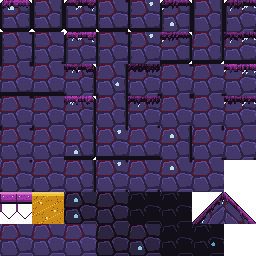
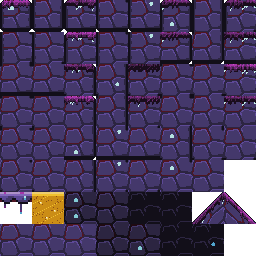
Pass 542: the Evercrown's shelves are grown
The Evercrown's one-way plank was a hot crystal-ramp board on crystal chains,
which the pass 540 grade read as a flat single-fill magenta prop. It is now a
shelf grown from the zone's own matter (night ramp, lit top over shaded lobes,
a crystal glaze, sinew notches, a cyan pore, selective outline, a hanging
tendril) and hangs on sinew strands. Bible 12.34.

Changed region(s): [[0.0, 0.75, 0.125, 0.8438]]

diff --git a/tools/art/tilegen.py b/tools/art/tilegen.py
@@ -692,8 +692,8 @@ def darken(img, ox, oy, steps):
 # from zone to zone, and the stub becomes a drawn trestle so the ledge reads as
 # built. `metal` gives the board a brighter catch-light (the iron Tower). The
 # families: warm wood (gym, heartwood, boughs), grey driftwood (haar, sunken),
-# pale stone (vorrhallow, trials, tower), dry timber (spires), stillglass
-# (evercrown). hearthroot's plank is PixelLab art (pixellab_tileset.atlas) and
+# pale stone (vorrhallow, trials, tower), dry timber (spires), and a grown
+# shelf (evercrown, 12.34: paint_grown_shelf). hearthroot's plank is PixelLab art (pixellab_tileset.atlas) and
 # does not use this painter.
 PLANK = {
     "gym": {"wood": "bark", "nail": "stone-5", "strut": "bark"},
@@ -705,7 +705,7 @@ PLANK = {
     "trials": {"wood": "ash", "nail": "ash-5", "strut": "ash"},
     "spires": {"wood": "ochre", "nail": "gold-5", "strut": "umber"},
     "tower": {"wood": "ash", "nail": "sky-5", "strut": "ash", "metal": True},
-    "evercrown": {"wood": "crystal", "nail": "sky-6", "strut": "crystal"},
+    "evercrown": {"wood": "night", "nail": "sky-6", "strut": "night", "grown": True},
     "hearthroot": {"wood": "bark", "nail": "gold-4", "strut": "bark"},
 }
 
@@ -716,6 +716,9 @@ def paint_one_way(img, ox, oy, zone):
     trestle below so the ledge reads as built, not floated. hearthroot's plank is
     PixelLab art and does not use this."""
     spec = PLANK.get(zone, PLANK["gym"])
+    if spec.get("grown"):
+        paint_grown_shelf(img, ox, oy, spec)
+        return
     wood, nail, strut = spec["wood"], spec["nail"], spec["strut"]
     metal = spec.get("metal", False)
     period = 8 * D
@@ -757,6 +760,97 @@ def paint_one_way(img, ox, oy, zone):
                 xx = (gx + (1 if sgn > 0 else 0) + sgn * k) % T
                 shade = "night-0" if k >= leg - 1 else f"{strut}-1"
                 img.putpixel((ox + xx, oy + y), c(shade))
+
+
+# The Evercrown's shelf (design bible 12.34, pass 542). Its plank was a stillglass
+# board in the hot crystal ramp, hung on crystal chains: the independent grade (pass
+# 540) read it as a flat single-fill magenta prop. It is now grown from the zone's
+# own matter: a row of rounded cell segments on the night ramp, lit from the upper
+# left, with sinew (ember-1) in the seams, a cyan pore in some segments, a thin
+# crystal glaze only on the lit rim, a night-0 outline under the shadow side, and
+# short tendrils hanging from its underside. Painted in whole world pixels.
+SHELF_SEGS = (7, 9)     # world px per segment; they sum to the tile so runs tile seamlessly
+SHELF_SEED = 542
+SHELF_LIGHT = (-0.55, -0.6, 0.58)   # from the upper left, toward the viewer
+
+
+def _shelf_px(img, ox, oy, wx, wy, col):
+    for dy in range(D):
+        for dx in range(D):
+            img.putpixel((ox + wx * D + dx, oy + wy * D + dy), c(col))
+
+
+def shelf_cells():
+    """{(wx, wy): name} for one tile of the grown shelf, in world pixels."""
+    ramp, pore = PLANK["evercrown"]["wood"], PLANK["evercrown"]["nail"]
+    lx, ly, lz = SHELF_LIGHT
+    ll = math.sqrt(lx * lx + ly * ly + lz * lz)
+    out = {}
+    body = set()
+    W = T // D
+    x0 = 0
+    for seg, w in enumerate(SHELF_SEGS):
+        # one lobe per segment, hanging under a continuous top: the shelf reads as
+        # one grown ledge with a lumpy underside, not a string of beads
+        cx, cy, rx, ry = x0 + (w - 1) / 2, 1.0, w / 2 + 0.4, 4.6
+        for wx in range(x0, x0 + w):
+            for wy in range(6):
+                nx, ny = (wx - cx) / rx, (wy - cy) / ry
+                if wy >= 2 and nx * nx + ny * ny > 1.0:
+                    continue
+                if wy == 0:
+                    col = f"{ramp}-5"
+                elif wy == 1:
+                    col = f"{ramp}-4"
+                else:
+                    nz = math.sqrt(max(0.0, 1.0 - nx * nx - ny * ny))
+                    lit = (nx * lx + max(ny, 0.0) * ly + nz * lz) / ll
+                    col = f"{ramp}-{4 if lit > 0.7 else 3 if lit > 0.35 else 2}"
+                out[(wx, wy)] = col
+                body.add((wx, wy))
+        # a short glaze of stillglass where the light first catches the lobe
+        gx = x0 + max(1, w // 3)
+        out[(gx, 0)] = "crystal-3"
+        if w > 7:
+            out[(gx + 1, 0)] = "crystal-3"
+        # a cyan pore in the wide lobe only, so a run doesn't dot a regular row
+        if w > 7:
+            px = x0 + w // 2 + 1
+            out[(px, 2)] = pore
+            out[(px, 3)] = "sky-4"
+        x0 += w
+    # sinew in the notches between the lobes
+    for wx in range(W):
+        for wy in range(2, 5):
+            if (wx, wy) not in body and (((wx - 1) % W, wy) in body or ((wx + 1) % W, wy) in body):
+                out[(wx, wy)] = "ember-1"
+    # selective outline: under the body and down its shaded right side only
+    for (wx, wy) in list(body):
+        below = (wx, wy + 1) in body
+        right = ((wx + 1) % W, wy) in body
+        if not below or (not right and wy >= 2):
+            out[(wx, wy)] = "night-0"
+    # one tendril per tile hangs from the wider lobe: a fleshy root that pales
+    # toward its tip, with a bead of cyan sap on the longer ones
+    x0 = SHELF_SEGS[0]
+    w = SHELF_SEGS[1]
+    wx = x0 + w // 2 - 1 + int(hash2(1, 0, SHELF_SEED + 1) * 3)
+    top = max(y for (bx, y) in body if bx == wx) + 1
+    n = 3 + int(hash2(1, 0, SHELF_SEED + 2) * 3)
+    for i in range(n):
+        out[(wx, top + i)] = f"{ramp}-2" if i < n - 1 else "crystal-2"
+    out[(wx, top + n)] = "sky-4"
+    # and a stub on the narrow lobe
+    sx = 2
+    stop = max(y for (bx, y) in body if bx == sx) + 1
+    out[(sx, stop)] = f"{ramp}-2"
+    out[(sx, stop + 1)] = "crystal-2"
+    return out
+
+
+def paint_grown_shelf(img, ox, oy, spec):
+    for (wx, wy), col in shelf_cells().items():
+        _shelf_px(img, ox, oy, wx, wy, col)
 
 
 def paint_amber(img, ox, oy):

diff --git a/tools/art/test_tilegen.py b/tools/art/test_tilegen.py
@@ -740,7 +740,7 @@ def _dominant_board_ramp(zone):
             if a == 0:
                 continue
             fam = _ramp_of((r, g, b))
-            if fam != "night":  # skip the groove/outline shadow
+            if fam != "night" or tg.PLANK[zone]["wood"] == "night":  # skip the groove/outline shadow
                 counts[fam] += 1
     return counts.most_common(1)[0][0] if counts else None
 
@@ -773,7 +773,9 @@ def test_one_way_plank_rests_on_a_trestle_below_the_board():
     # appear below the old bracket depth (10 world px). (Dropping the leg-drawing
     # loop leaves nothing that deep and fails this.)
     deep = 11 * tg.D  # render row below the former stub (which stopped at 10*D)
-    for zone in ("heartwood", "haar", "sunken", "evercrown"):
+    # (The Evercrown's shelf is grown, not built, since pass 542: tendrils, not a
+    # trestle, hang under it; test_evercrown_shelf_* cover it.)
+    for zone in ("heartwood", "haar", "sunken"):
         t = _one_way_tile(zone)
         px = t.load()
         opaque = sum(1 for y in range(deep, tg.T) for x in range(tg.T) if px[x, y][3] != 0)
@@ -1076,6 +1078,71 @@ def main():
         t()
         print(f"ok  {t.__name__}")
     print(f"\n{len(tests)} checks passed")
+
+
+# --- The Evercrown's grown shelf (bible 12.34, pass 542) -------------------------
+def _shelf():
+    t = _one_way_tile("evercrown")
+    return t, t.load()
+
+
+def test_evercrown_shelf_is_grown_from_the_zone_not_hot_stillglass():
+    # The grade (pass 540) read the old crystal-ramp board as a flat hot-magenta
+    # prop. The shelf is now night-ramp matter with only a glaze of crystal-3.
+    # (Restoring PLANK["evercrown"]["wood"] = "crystal" fails this.)
+    t, px = _shelf()
+    hot = {tg.c(f"crystal-{i}")[:3] for i in (4, 5, 6, 7)}
+    names = {tg.c(n)[:3]: n for n in tg.PAL}
+    seen = {}
+    for y in range(t.height):
+        for x in range(t.width):
+            p = px[x, y]
+            if p[3]:
+                assert p[:3] not in hot, f"hot stillglass at {x},{y}"
+                n = names[p[:3]].rsplit("-", 1)[0]
+                seen[n] = seen.get(n, 0) + 1
+    total = sum(seen.values())
+    assert seen.get("night", 0) > 0.7 * total, f"the shelf is mostly night matter: {seen}"
+    assert 0 < seen.get("crystal", 0) < 0.08 * total, f"crystal is only a glaze: {seen}"
+    assert seen.get("ember", 0) > 0, "sinew shows in the notches"
+
+
+def test_evercrown_shelf_sits_on_the_world_pixel_grain():
+    t, px = _shelf()
+    D = tg.D
+    for y in range(0, t.height, D):
+        for x in range(0, t.width, D):
+            block = {px[x + i, y + j] for i in range(D) for j in range(D)}
+            assert len(block) == 1, f"block {x},{y} is split: {block}"
+
+
+def test_evercrown_shelf_has_an_unbroken_lit_top_and_a_shadowed_underside():
+    # The top band runs the whole tile, so a run of shelves reads as one ledge;
+    # the top is lit and the underside closes in night-0, the top never does.
+    # (Shading the lobes from below, or outlining all round, fails this.)
+    t, px = _shelf()
+    W = tg.T // tg.D
+    top = [px[x * tg.D, 0] for x in range(W)]
+    assert all(p[3] for p in top), "the top band is unbroken"
+    assert tg.c("night-0") not in top, "no outline along the lit top"
+    lum_top = sum(_lum(p) for p in top) / W
+    skip = {tg.c(n)[:3] for n in ("night-0", "ember-1", "sky-4", "sky-6")}
+    under = [px[x * tg.D, y * tg.D] for x in range(W) for y in (2, 3, 4)
+             if px[x * tg.D, y * tg.D][3] and px[x * tg.D, y * tg.D][:3] not in skip]
+    assert lum_top > sum(_lum(p) for p in under) / len(under) + 20, "the top is lit, the lobes fall into shade"
+    for x in range(W):
+        col = [px[x * tg.D, y * tg.D] for y in range(6)]
+        body = [i for i, p in enumerate(col) if p[3] and p[:3] != tg.c("ember-1")[:3]]
+        if body:
+            assert col[body[-1]][:3] == tg.c("night-0")[:3], f"column {x} closes in night-0"
+
+
+def test_evercrown_shelf_tiles_seamlessly():
+    # Lobes sum to the tile width and the top band meets itself across the seam.
+    t, px = _shelf()
+    assert sum(tg.SHELF_SEGS) == tg.T // tg.D
+    for y in range(2):
+        assert px[0, y * tg.D] == px[t.width - 1, y * tg.D] or (px[0, y * tg.D][3] and px[t.width - 1, y * tg.D][3])
 
 
 if __name__ == "__main__":

diff --git a/docs/loop/pass-542.md b/docs/loop/pass-542.md
@@ -1,0 +1,93 @@
+# Pass 542: the Evercrown's shelves are grown
+
+## Category
+
+A defect from the pass 540 independent grade (workbench queue): "flat single-fill props", the
+Evercrown's "hot-magenta platforms and chains" next after the Spires' sky islands (pass 541). Art
+cohesion, and Environments in the grade.
+
+No note from Sean was new. The PixelLab art loop stays **gated** on him: three guardian bases (Haar
+Wyrm, Thane Vorrund, Drowned Warden) wait for his OK, the limit of three. The queue's first two items
+(rim light on figures; the Boughs painterly clash) stay parked for a watched session, and the third
+(one-template rooms) is a level-design rework, so this was the first art item an unattended pass could
+finish. No PixelLab generations were spent.
+
+The hosted workbench is down: its Vercel Blob store is suspended (function logs:
+`BlobStoreSuspendedError`), so `push.py` gets HTTP 500 on every write and the hosted site shows no
+notes. Nothing in the repository can fix it; it is under "stuck" for Sean.
+
+## Audit
+
+The magenta platforms are the Evercrown's one-way plank (`-`): `tilegen.paint_one_way` with
+`PLANK["evercrown"]` set to the crystal ramp, a board in crystal-5 to crystal-2 on a crystal trestle.
+The chains are its hangers from pass 538 (`PlankSupports.LOOKS["evercrown"]`: crystal-4, crystal-3,
+crystal-1). In `evercrown/veins` six runs of them hang across the room, the brightest flat colour in a
+dark violet zone, brighter than the foes.
+
+## What was built
+
+- `paint_grown_shelf` and `shelf_cells` (`tools/art/tilegen.py`), used when a zone's plank is marked
+  `grown`. The shelf is grown from the zone's own matter: a continuous lit top band (night-5 over
+  night-4) over one rounded lobe per segment (`SHELF_SEGS`, 7 and 9 world px, so the tile repeats
+  seamlessly), the lobes shaded on the night ramp, lit from the upper left.
+- Accents: a short crystal-3 glaze where the light first catches each lobe (the only crystal left),
+  sinew in the notches between lobes, one cyan pore in the wide lobe.
+- A night-0 selective outline under each lobe and down its shaded right side, never along the top.
+- One fleshy tendril hangs from the wide lobe, paling to its tip, with a bead of cyan sap; a stub
+  hangs from the narrow one. They replace the trestle: the shelf is grown, not built.
+- Hangers are sinew (night-5, night-3, ember-1, drawn like rope); posts and braces are night tissue.
+- Painted in whole world pixels (D x D), like pass 541.
+
+## By eye, at 1x and 3x
+
+`evercrown/veins` before and after, and `evercrown/drift_well` and `heart_stair` for the zone's other
+surfaces. The first take shaded each segment as a full ellipse: at 3x the shelves read as a string of
+beads or mushroom caps. The second joined the lobes under one continuous lit top: the shelf reads as
+one grown ledge with a scalloped underside, of a piece with the zone's cell-stone floor. The cyan pore
+in every lobe dotted a regular row and now sits in the wide lobe only. At 1x the shelves still read as
+platforms against the violet backdrop (lighter than it, with a dark underside), but they are no longer
+the loudest thing in the room; the cyan crystals and the foes now are.
+
+## Tests
+
+`tools/art/test_tilegen.py` (the art guard; CI runs only the Godot suite), four new checks: the shelf
+is mostly night matter with under 8% crystal and no hot crystal (crystal-4 to 7), with sinew; every
+pixel sits on the world-pixel grain; the top band is unbroken, lit and never outlined while the lobes
+fall into shade and every column closes in night-0; the lobes fill the tile so it repeats. Two older
+checks learned the grown shelf: the board-material check counts night when that is the zone's
+material, and the trestle check leaves the Evercrown out. 63 checks pass.
+
+`tests/test_plank_supports.gd`, one new test: the Evercrown hangs its shelves on sinew in no hot
+crystal tone, and a built Evercrown room takes that look.
+
+Mutations, each caught: the crystal board back (palette check), an outline along the top (top check),
+lobes lit flat instead of shaded (shade check, after it learned to sample lobe body only and not the
+outline and sinew), half-pixel blocks (grain check), lobes that don't fill the tile (seam check), the
+crystal chain look back (the Godot test, 3 of 8 checks).
+
+Bible: 12.34 (the Evercrown's shelves are grown); 12.30 now says the Evercrown hangs on sinew.
+
+## Rubric (design bible 15.3)
+
+| Category | Weight | Score | Notes |
+| --- | --- | --- | --- |
+| Movement feel | 20 | 99 | Unchanged. |
+| Combat and enemies | 15 | 99 | Unchanged. |
+| World and level design | 15 | 99 | Unchanged; the empty mid-ground and one-template rooms remain. |
+| Art cohesion | 15 | 98 | The Evercrown's shelves are grown from the zone. The flat cyan diamonds in the Evercrown veins, the smelter cauldron, the Haar's orange blocks, the HD hero and the guardian bases (gated art loop) remain. |
+| Bosses | 10 | 99 | Unchanged. |
+| Systems | 10 | 99 | Unchanged. |
+| Audio | 5 | 99 | Unchanged. |
+| Stability and performance | 5 | 99 | Unchanged; a baked tile. |
+| Story and world | 5 | 99 | Unchanged. |
+
+Weighted: 98.85.
+
+## Next
+
+Pass 543: the art loop stays **gated** on Sean (three guardian bases wait). Next, the rest of the
+pass 540 grade's flat props (the smelter cauldron, the Haar's orange blocks) and the pass 535 grade's
+flat cyan diamonds hanging in the Evercrown veins, then its stray black bars in the shop and the
+one-template rooms. The VFX-tool trials continue on the dash afterimage, then the enemy death
+dissolve. Rim light on figures and the Boughs painterly clash stay parked for a watched session. The
+next independent grade is due at pass 545.

diff --git a/docs/design-bible.md b/docs/design-bible.md
@@ -1899,7 +1899,7 @@ The independent grade (pass 535) read rooms as "empty boxes of unsupported float
 
 - **A knee brace** where a run's end butts against a wall that continues below it: a diagonal strut from the wall, a tile below the board, up to the plank's underside. A run of 3 tiles or fewer braced at one end needs nothing else; a run braced at both ends needs nothing else.
 - **Posts** down to footing (a floor or another plank) when it is at most 4 tiles below the plank's end.
-- Otherwise **hangers** up to the first solid cell or plank above, one inset 4 px from each end of the run (a lone cell hangs from its middle). A hanger taken from a plank above is fixed under that plank's board, not below its trestle. Rope in the timber and water zones (the gym, the Heartwood, the High Boughs, the Haar, the Spires), chain in the stone, iron and glass ones (Hearthroot, the Sunken Spring, Vorrhallow, the Trials, the Tower, the Evercrown), each in its zone's tones; posts and braces in the plank's own strut timber. A hanger with nothing above it within 22 tiles runs 5 tiles up and fades into the dark, as if hung from beyond the view.
+- Otherwise **hangers** up to the first solid cell or plank above, one inset 4 px from each end of the run (a lone cell hangs from its middle). A hanger taken from a plank above is fixed under that plank's board, not below its trestle. Rope in the timber and water zones (the gym, the Heartwood, the High Boughs, the Haar, the Spires), chain in the stone and iron ones (Hearthroot, the Sunken Spring, Vorrhallow, the Trials, the Tower), and sinew in the Evercrown (12.34), each in its zone's tones; posts and braces in the plank's own strut timber. A hanger with nothing above it within 22 tiles runs 5 tiles up and fades into the dark, as if hung from beyond the view.
 
 The layer draws once per room load behind the tiles (z -1, like the ladders), so the board sits over the hanger's foot and actors pass in front; collision is untouched. Ladder tops, drowned boardwalks and hidden planks are not given supports (the ladder carries its own plank; the others are deliberate). Judged by eye at 1x and 2x in `spires/sky_steps`, `tower/bat_belfry`, `haar/drowned_stair`, `heartwood/amber_falls`, `evercrown/drift_well` and `sunken/drowned_aqueduct`: the planks read as hung, propped or braced, and foes and pickups still pop in front of the thin supports. `tests/test_plank_supports.gd` checks each rule and that every plank run in the game is held up.
 
@@ -1929,6 +1929,17 @@ The pass 540 grade listed the Spires' "floating magenta triangle islands with on
 - **Grass lip** (`ISLAND_GRASS`, three leaf tones): a world pixel wider than the rock each side, its top ragged with standing blades, tufts hanging over both ends, moss strands down the rock's top, and roots dangling from the belly.
 
 The ruined towers on some islands (`ruined_spire`) follow the same grain and ramp: lit on the left, a shadow column and outline on the right, mortar courses, a broken crown and one warm window. Island positions are unchanged (the layer's random draws are kept). Every tone is a master palette value. Judged by eye at 1x and 4x in `spires/sky_steps` and `spires/fallen_bridge`. `tools/art/test_tilegen.py` checks the ramp and outline tones, the world-pixel grain, the light from the upper left, the selective outline and that islands differ and hang in more than one point.
+
+### 12.34 The Evercrown's shelves are grown (pass 542)
+
+The pass 540 grade listed the Evercrown's "hot-magenta platforms and chains" among its flat single-fill props. The zone's one-way plank was a stillglass board in the saturated crystal ramp on a crystal trestle, hung (12.30) on crystal chains: the brightest flat colour in a dark violet zone. The Evercrown is the inside of the Everbloom, so its shelves are now grown from the zone's own matter rather than built (`paint_grown_shelf` and `shelf_cells` in `tools/art/tilegen.py`, `PLANK["evercrown"]` marked `grown`):
+
+- **Body**: a continuous lit top band (night-5 over night-4) the width of the tile, so a run reads as one ledge, with one rounded lobe per segment hanging beneath it (`SHELF_SEGS`, 7 and 9 world px, so the tile repeats seamlessly). The lobes are shaded on the night ramp (night-4 to night-2), lit from the upper left.
+- **Accents**: a short glaze of crystal-3 where the light first catches each lobe (the only crystal left, under 8% of the tile), sinew (ember-1) in the notches between lobes, a cyan pore (sky-6 over sky-4) in the wide lobe.
+- **Selective outline**: night-0 under each lobe and down its shaded right side, never along the lit top.
+- **Tendrils**: in place of a trestle, one fleshy root hangs from the wide lobe and paling toward its tip (night-2 to crystal-2) with a bead of cyan sap, and a stub hangs from the narrow one.
+
+Hangers are sinew strands (night-5, night-3, ember-1; drawn like rope), and posts and braces are night-ramp tissue. Painted in whole world pixels. Judged by eye at 1x and 3x in `evercrown/veins` against the pass 541 build: the shelves keep their read as platforms against the violet backdrop while no longer the loudest colour in the room. `tools/art/test_tilegen.py` checks the palette (mostly night, a glaze of crystal, no hot crystal), the world-pixel grain, the unbroken lit top over shaded lobes, the outline and the seamless tile; `tests/test_plank_supports.gd` checks the sinew look.
 
 ## 13. Asset Production Plan
 
